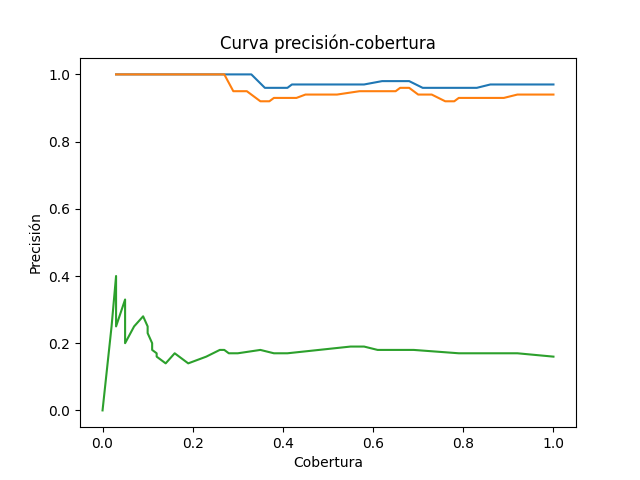
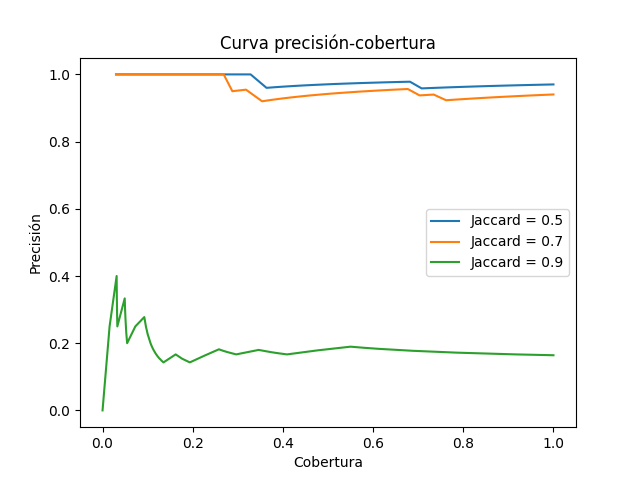
commit
kdndfk,bmvedflvmd.vmsdlv.d

diff --git a/App/archivo.py b/App/archivo.py
@@ -1,7 +1,4 @@
 # imports
-from socket import TCP_NODELAY
-from turtle import color
-import cv2
 import matplotlib.pyplot as plt
 import matplotlib.patches as mpatches
 from skimage.morphology import label
@@ -10,15 +7,12 @@ import numpy as np
 import config as cf
 assert cf
 import data_mp1.utils as ut
-#import utils
 import sys 
-from sklearn.metrics import precision_recall_curve
-from sklearn.metrics import average_precision_score
-from sklearn.metrics import jaccard_score
 import json
 import os
 import matplotlib.pyplot as plt
 import numpy as np
+from scipy.integrate import simps
 
 # 8.2. Función predicciones de detección 
 
@@ -80,7 +74,7 @@ matrix_3[21:30, [14,15,34,35]], matrix_3[22:29, [13,36]], matrix_3[20:31, 16:34]
 masks = [matrix_1, matrix_2, matrix_3]
 lis_json = []
 i= 0
-fig, ax = plt.subplots(nrows=3,ncols=2, figsize=(20, 12))
+fig, ax = plt.subplots(nrows=3,ncols=2)
 for mask in masks:
     ax[i,0].imshow(mask)
     ax[i,0].set_axis_off()
@@ -97,6 +91,7 @@ for mask in masks:
     lis_json += predicciones
     print("----------------\n",lis_json)
 plt.suptitle("Validación de la función de predicción de detección")
+plt.tight_layout()
 plt.show()
 
 # 8.3 Función Evaluación de predicciones
@@ -186,12 +181,6 @@ def detections_Codigo1_Codigo2(conf_thresh=0.5, jaccard_thresh=0.7, annot_file=c
                         lista.append("FN")
                         FN += 1
     TN = 0                    
-    #FN_1 = len(lista_aux) - TP - FP -TN 
-    #print("##########################################33")
-    #print("\nlista:",lista, lista.count("TP"), lista.count("FP"), lista.count("FN"), lista.count("TN"))
-    #print(FN_1)
-    #print("TP:",TP,"FP:",FP,"FN:",FN,"TN:",TN)
-   
     return TP,FP,FN, TN ## REVISAR FN!!!!!!!!!!
 
 # 8.3.1 Validación de la función de evaluación de predicciones
@@ -237,16 +226,19 @@ def PRCurve_Codigo1_Codigo2(jaccard_thresh=jacc_thr, annot_file=carpeta, pred_fi
         for i in np.arange(0.0, 1.1, 0.01):
             TP, FP, FN, TN = detections_Codigo1_Codigo2(conf_thresh=i, jaccard_thresh=j)
             if TP+FP != 0:
-                precision.append(round(TP/(TP+FP),2))
-                recall.append(round(TP/(TP+FN),2))
-        data.append({"precision":precision,"cobertura":recall})
+                precision.append(TP/(TP+FP))
+                recall.append(TP/(TP+FN))
+        area_under_the_curve = simps(precision,dx=0.01)
+        area_under_the_curve1= np.trapz(precision, dx=0.01)
+        print(area_under_the_curve, area_under_the_curve1)
+        data.append({"precision":precision,"cobertura":recall, "area_under_the_curve":area_under_the_curve})
         plt.plot(recall, precision,label="Jaccard = {}".format(j))
     
     plt.xlabel("Cobertura")
     plt.ylabel("Precisión")
     plt.title("Curva precisión-cobertura")
-    plt.savefig(save_route)
     plt.legend()
+    plt.savefig(save_route)
     plt.grid()
     plt.show()
     return data
